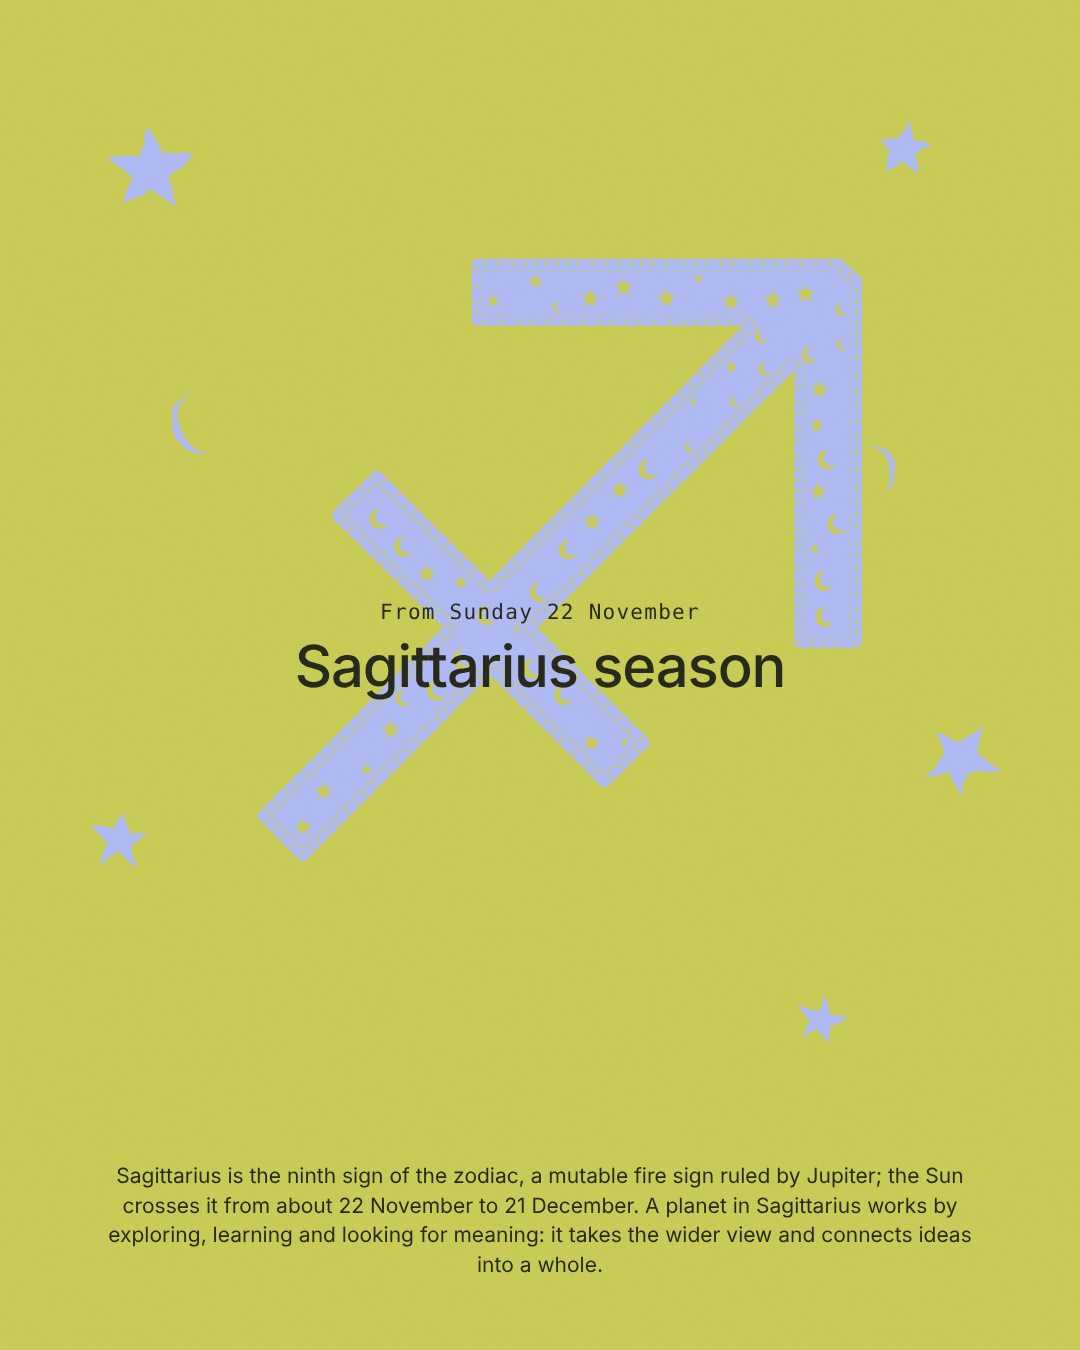
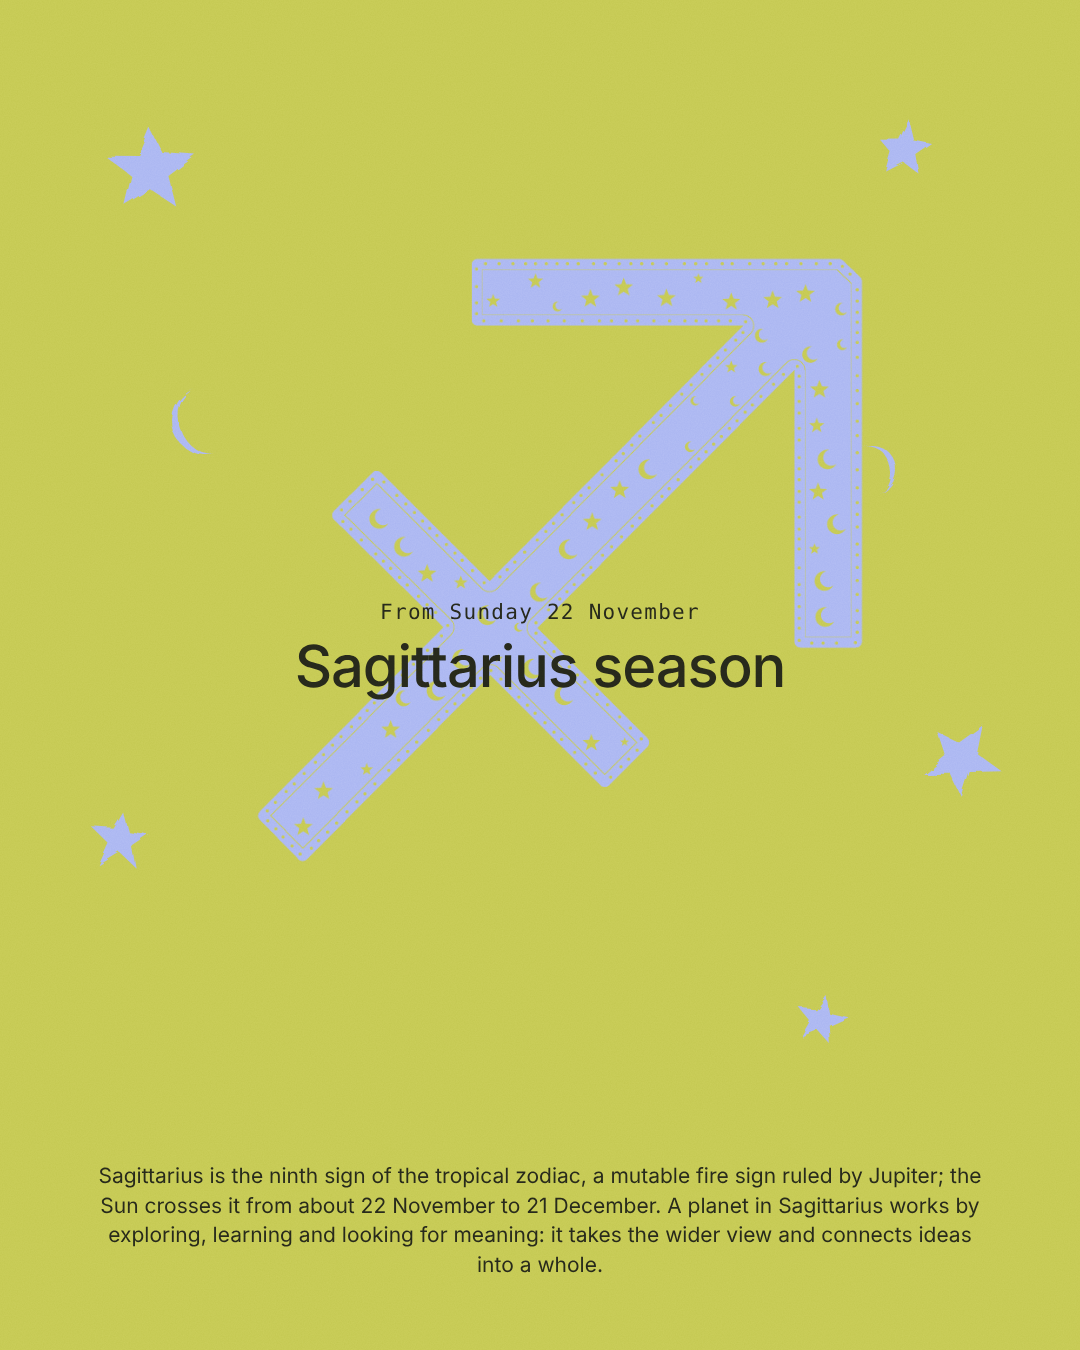
Posts: exact sources for the myths (Pseudo-Eratosthenes, Catasterismi 7, 28, 32, 40; Aratus, Phaenomena 634–646; Hyginus, De Astronomia 2.27, 2.38; MUL.APIN I iv 31–39) and the computed times (Meeus); "modern tropical astrology", and the tropical zodiac named
Claude-Session: https://claude.ai/code/session_018jKMK9BPQVbgBpXXSDVL8J

Changed region(s): [[0.0917, 0.84, 0.9167, 0.9022]]

diff --git a/media/posts/myth-why-is-scorpio-a-scorpion/caption.md b/media/posts/myth-why-is-scorpio-a-scorpion/caption.md
@@ -10,10 +10,12 @@ A woodcut of a scorpion, claws raised and tail curled, with rays cut all around 
 
 Why is Scorpio a scorpion?
 
-In one Greek telling, Orion the hunter boasted that he would kill every animal on earth. Gaia, the Earth herself, sent a scorpion to stop him, and its sting killed him. In another, it is Artemis who sends it.
+In the version Pseudo-Eratosthenes credits to Hesiod, Orion the hunter threatened to kill every animal on earth, and Earth sent a huge scorpion that stung him to death. At the prayer of Artemis and Leto, Zeus set Orion among the stars for his courage, and the scorpion too, as a memorial (Catasterismi 32, Orion; 7, the Scorpion).
 
-Both were set among the stars, on opposite sides of the sky, and they are still kept apart: as Scorpius rises in the east, Orion sets in the west.
+Aratus tells it differently: Orion attacked Artemis while hunting on Chios, and she sent the scorpion. That is why, he writes, Orion flees when the Scorpion rises (Phaenomena 634–646). The sky agrees: as Scorpius rises in the east, Orion sets in the west.
 
-In astrology, Scorpio is the eighth sign: fixed water, ruled by Pluto in modern astrology and by Mars in the tradition. The Sun crosses it from about 23 October to 21 November. In a birth chart, a planet in Scorpio works with depth and intensity: it looks for the truth beneath appearances, and it can transform and regenerate.
+In tropical astrology, Scorpio is the eighth sign: fixed water, ruled by Pluto in modern tropical astrology and by Mars in traditional astrology (Ptolemy, Tetrabiblos I.17). The Sun crosses it from about 23 October to 21 November. In a birth chart, a planet in Scorpio works with depth and intensity: it looks for the truth beneath appearances, and it can transform and regenerate.
+
+Sources: Pseudo-Eratosthenes, Catasterismi 7 and 32; Aratus, Phaenomena 634–646; Ptolemy, Tetrabiblos I.17.
 
 #scorpio #scorpioseason #mythology #astrology

diff --git a/media/posts/myth-why-is-sagittarius-a-centaur/caption.md b/media/posts/myth-why-is-sagittarius-a-centaur/caption.md
@@ -10,10 +10,12 @@ A woodcut of a centaur drawing his bow, with rays cut all around him, printed in
 
 Why is Sagittarius a centaur?
 
-The archer is older than the Greeks. In Babylon, the god Pabilsag was carved on boundary stones as an archer with wings, a horse's body and a scorpion's tail.
+The constellation is older than the Greeks: the Babylonian star list MUL.APIN already names it, as Pabilsag, among the stars in the path of the Moon (tablet I, column iv, lines 31–39).
 
-The Greeks kept the bow and the horse: a centaur, his arrow drawn towards the heart of the Scorpion, next to him in the sky. Some said he was Chiron, the wise centaur who taught heroes; others gave Chiron a constellation of his own, the Centaur.
+The Greeks and Romans weren't sure he was a centaur. Hyginus writes that many call him the Centaur and others deny it, and tells of Crotus, son of Eupheme, the Muses' nurse: the Muses asked Jupiter to set him among the stars, and he was given a horse's flanks because he rode a great deal (De Astronomia 2.27; the same story is in Pseudo-Eratosthenes, Catasterismi 28). Chiron, the wise centaur, has a constellation of his own: the Centaur (Catasterismi 40; De Astronomia 2.38).
 
-In astrology, Sagittarius is the ninth sign: mutable fire, ruled by Jupiter, crossed by the Sun from about 22 November to 21 December. A planet in Sagittarius works by exploring, learning and looking for meaning.
+In tropical astrology, Sagittarius is the ninth sign: mutable fire, ruled by Jupiter, crossed by the Sun from about 22 November to 21 December. A planet in Sagittarius works by exploring, learning and looking for meaning.
+
+Sources: MUL.APIN I iv 31–39, ed. H. Hunger and J. Steele, The Babylonian Astronomical Compendium MUL.APIN (2019); Hyginus, De Astronomia 2.27 and 2.38; Pseudo-Eratosthenes, Catasterismi 28 and 40.
 
 #sagittarius #sagittariusseason #mythology #astrology

diff --git a/media/posts/2026-11-22-sagittarius-season/caption.md b/media/posts/2026-11-22-sagittarius-season/caption.md
@@ -10,10 +10,12 @@ A large paper-cut Sagittarius glyph, an arrow crossed near its tail, drawn in pa
 
 Sagittarius season begins · Sunday 22 November
 
-The Sun moves from Scorpio into Sagittarius around 07:20 UTC (08:20 in Paris) and stays there until 21 December.
+The Sun moves from Scorpio into Sagittarius in the tropical zodiac around 07:20 UTC (08:20 in Paris) and stays there until 21 December.
 
-Sagittarius is the ninth sign of the zodiac: mutable fire, ruled by Jupiter. A planet in Sagittarius works by exploring, learning and looking for meaning: it takes the wider view and connects ideas into a whole. Exploring is not recklessness, and vision is not dogmatism.
+Sagittarius is the ninth sign of the tropical zodiac: mutable fire, ruled by Jupiter. A planet in Sagittarius works by exploring, learning and looking for meaning: it takes the wider view and connects ideas into a whole. Exploring is not recklessness, and vision is not dogmatism.
 
 Look for ♐ in your chart: every planet you have there takes on this way of working.
+
+Source for the time: computed with Jean Meeus, Astronomical Algorithms, 2nd ed. (1998), ch. 25; given to the nearest few minutes.
 
 #sagittariusseason #sagittarius #astrology #zodiac

diff --git a/media/posts/2026-11-09-new-moon-in-scorpio/caption.md b/media/posts/2026-11-09-new-moon-in-scorpio/caption.md
@@ -11,7 +11,7 @@ A dark glow on a pale grey ground. In it: The Astro Study, 9 November 2026, 07:0
 New Moon in Scorpio · Monday 9 November, 07:02 UTC
 (08:02 in Paris, 07:02 in London, 02:02 in New York, 18:02 in Sydney)
 
-The Moon catches up with the Sun at 16°53′ Scorpio. A new moon is the dark start of the lunar month: the Moon passes between us and the Sun, and its lit side faces away from us.
+The Moon catches up with the Sun at 16°53′ Scorpio, in the tropical zodiac. A new moon is the dark start of the lunar month: the Moon passes between us and the Sun, and its lit side faces away from us.
 
 Scorpio colours whatever it touches with depth: it looks beneath the surface for what is really there, and changes form without losing what matters. A good week to write with these:
 
@@ -20,5 +20,7 @@ Scorpio colours whatever it touches with depth: it looks beneath the surface for
 3. Whom do I trust, and how did they earn it?
 
 Then write one intention. Keep it short, and keep it somewhere you'll see it when the Moon is full, on 24 November.
+
+Source for the times: computed with Jean Meeus, Astronomical Algorithms, 2nd ed. (1998), ch. 25 and 49.
 
 #newmoon #scorpioseason #astrology #newmoonintentions

diff --git a/media/posts/2026-11-24-full-moon-in-gemini/caption.md b/media/posts/2026-11-24-full-moon-in-gemini/caption.md
@@ -11,7 +11,7 @@ A dark blue glow on a pale grey ground. In it: The Astro Study, 24 November 2026
 Full Moon in Gemini · Tuesday 24 November, 14:53 UTC
 (15:53 in Paris, 14:53 in London, 09:53 in New York, 01:53 on the 25th in Sydney)
 
-The Moon stands opposite the Sun, at 2°20′ Gemini, and its whole lit face turns towards us. The new moon of 9 November began this cycle; the full moon is its turning point.
+The Moon stands opposite the Sun, at 2°20′ Gemini in the tropical zodiac, and its whole lit face turns towards us. The new moon of 9 November began this cycle; the full moon is its turning point.
 
 Gemini colours things with curiosity: it compares, connects, exchanges and keeps several perspectives in play at once. Three questions to write with:
 
@@ -20,5 +20,7 @@ Gemini colours things with curiosity: it compares, connects, exchanges and keeps
 3. What am I saying yes to out of habit?
 
 Then choose one thing to let go of before the next new moon.
+
+Source for the times: computed with Jean Meeus, Astronomical Algorithms, 2nd ed. (1998), ch. 25 and 49.
 
 #fullmoon #geminifullmoon #astrology #fullmoonritual

diff --git a/media/posts/guess-the-sign-pisces/caption.md b/media/posts/guess-the-sign-pisces/caption.md
@@ -14,6 +14,6 @@ Which sign is this? Guess in the comments before you read on.
 .
 .
 
-Pisces ♓: two fish, tied together. Pisces is the twelfth and last sign of the zodiac, mutable water, ruled by Neptune in modern astrology and by Jupiter in the tradition. A planet in Pisces works through imagination, empathy and compassion: it senses how everything connects. Empathy is not a lack of boundaries.
+Pisces ♓: two fish, tied together. In tropical astrology, Pisces is the twelfth and last sign: mutable water, ruled by Neptune in modern tropical astrology and by Jupiter in traditional astrology (Ptolemy, Tetrabiblos I.17). A planet in Pisces works through imagination, empathy and compassion: it senses how everything connects. Empathy is not a lack of boundaries.
 
 #pisces #astrology #zodiacquiz #guessthesign
